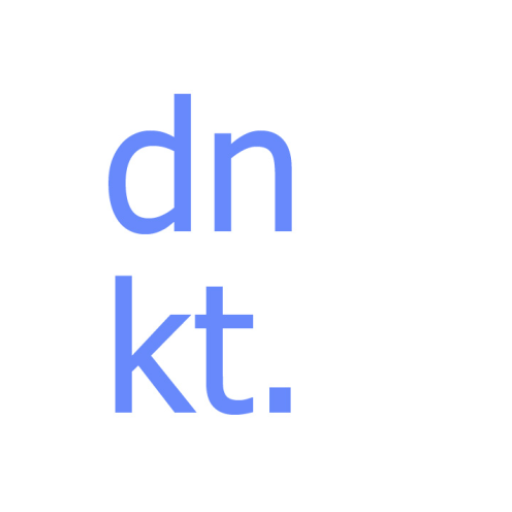
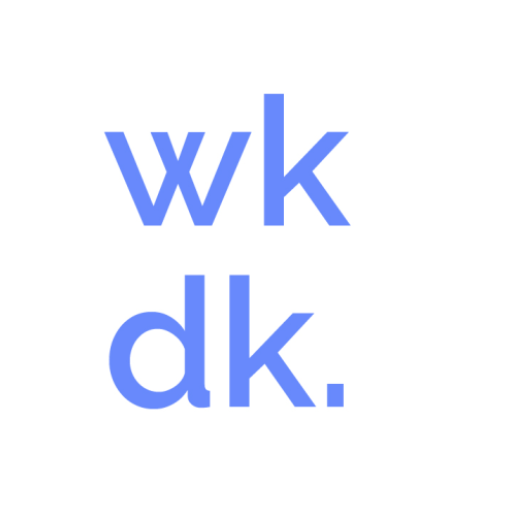
update app name

Changed region(s): [[0.1875, 0.1562, 0.6875, 0.4688], [0.1875, 0.5312, 0.6875, 0.8125]]

diff --git a/README.md b/README.md
@@ -1,4 +1,4 @@
-# Did Not Know That
+# Wikideck
 
 The goal of this application is for the users to quickly learn about interesting topics on their Android devices.
 
